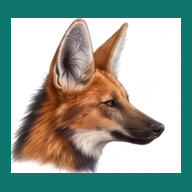
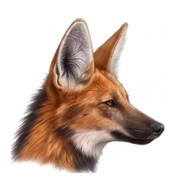
Icone do app com fundo branco
Regenera icon-192, icon-512 e icon-maskable com fundo totalmente branco,
mantendo o enquadramento da cabeca do lobo-guara. Sobe o cache do service
worker para derma-v11 para que os aparelhos busquem os arquivos novos.

Changed region(s): [[0.0, 0.0, 1.0, 1.0]]

diff --git a/sw.js b/sw.js
@@ -1,6 +1,6 @@
 /* Dermatograma — Canídeos Silvestres · service worker
    Cache-first: depois da primeira visita o app abre sem internet. */
-const CACHE = "derma-v10";
+const CACHE = "derma-v11";
 const ASSETS = ["./","./index.html","./manifest.webmanifest",
                 "./icon-192.png","./icon-512.png","./icon-maskable.png"];
 